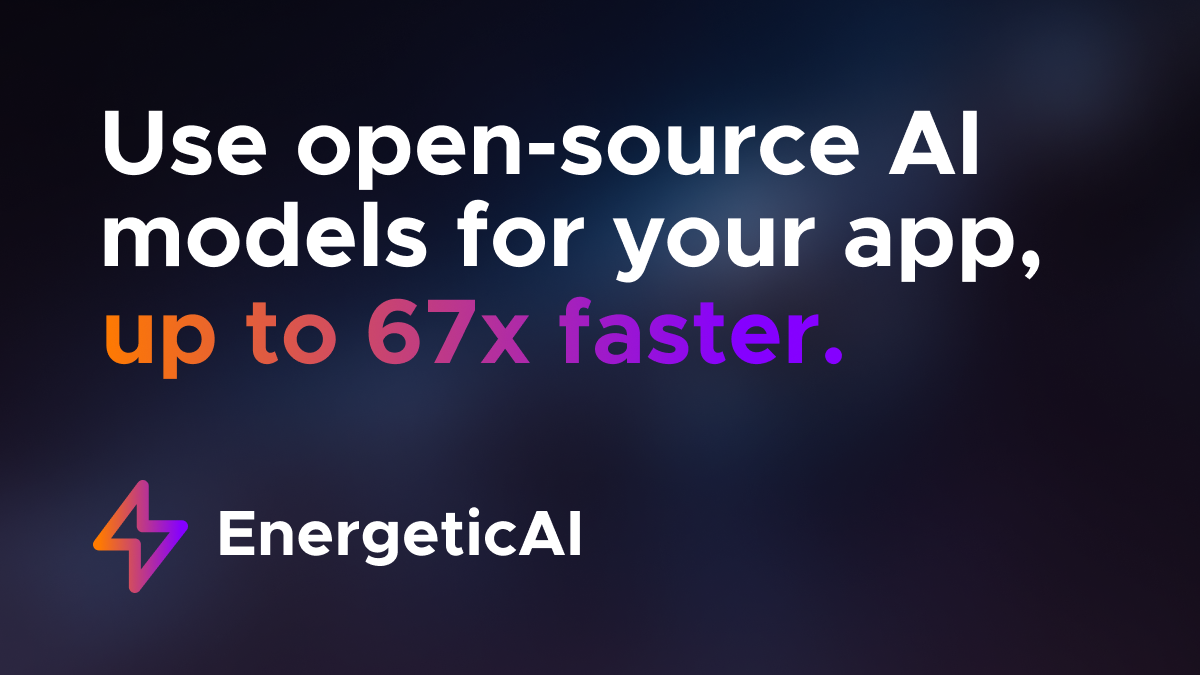
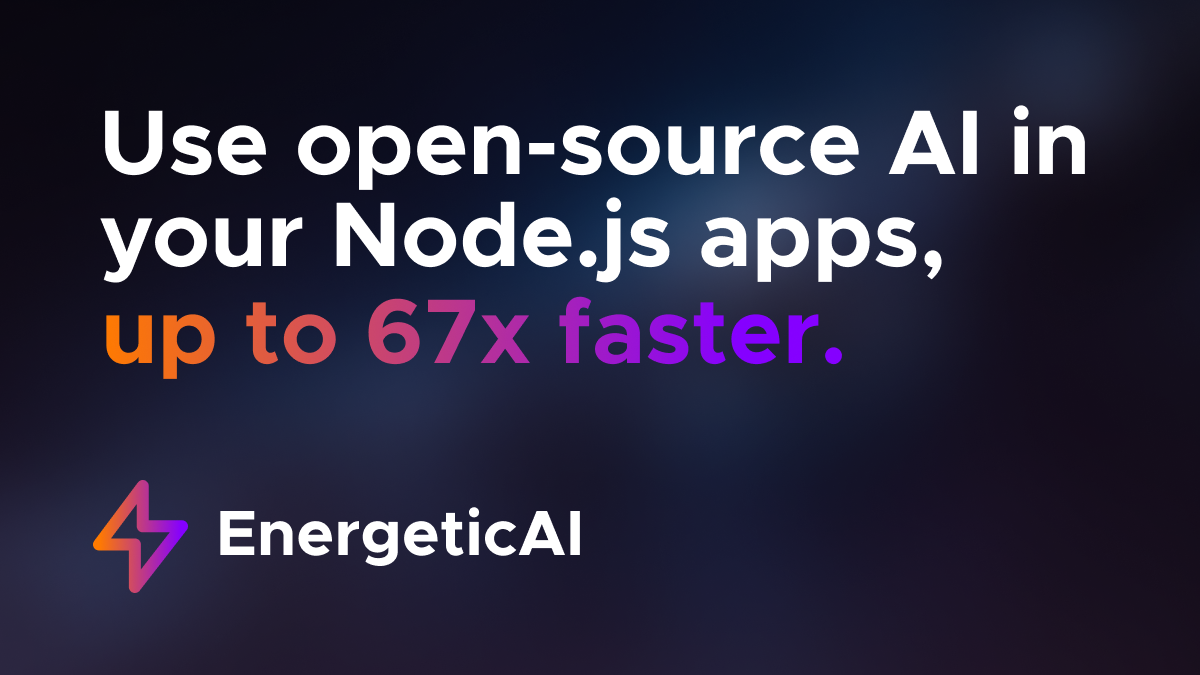
Tweak tagline

Changed region(s): [[0.0617, 0.28, 0.8633, 0.4356], [0.8325, 0.1556, 0.925, 0.28]]

diff --git a/website/src/pages/index.tsx b/website/src/pages/index.tsx
@@ -15,7 +15,7 @@ function HomepageHeader() {
         <div className={styles.heroContent}>
           <div className={styles.heroContentLeft}>
             <h1 className={clsx("hero__title", styles.heroTitle)}>
-              Use open-source AI models for your app,{" "}
+              Use open-source AI in your Node.js apps,{" "}
               <span className={styles.heroTitleHighlight}>
                 up to 67x faster
               </span>
@@ -63,7 +63,7 @@ function HomepageHeader() {
 export default function Home(): JSX.Element {
   return (
     <Layout
-      title={`Use open-source AI models for your Node.js app`}
+      title={`Use open-source AI in your Node.js apps`}
       description="EnergeticAI is TensorFlow.js optimized for serverless functions, with fast cold-start, small module size, and ease-of-use."
     >
       <HomepageHeader />

diff --git a/website/docusaurus.config.js b/website/docusaurus.config.js
@@ -7,7 +7,7 @@ const darkCodeTheme = require("prism-react-renderer/themes/dracula");
 /** @type {import('@docusaurus/types').Config} */
 const config = {
   title: "EnergeticAI",
-  tagline: "Use open-source AI models for your Node.js app.",
+  tagline: "Use open-source AI in your Node.js apps.",
   favicon: "img/favicon.ico",
 
   // Set the production url of your site here
